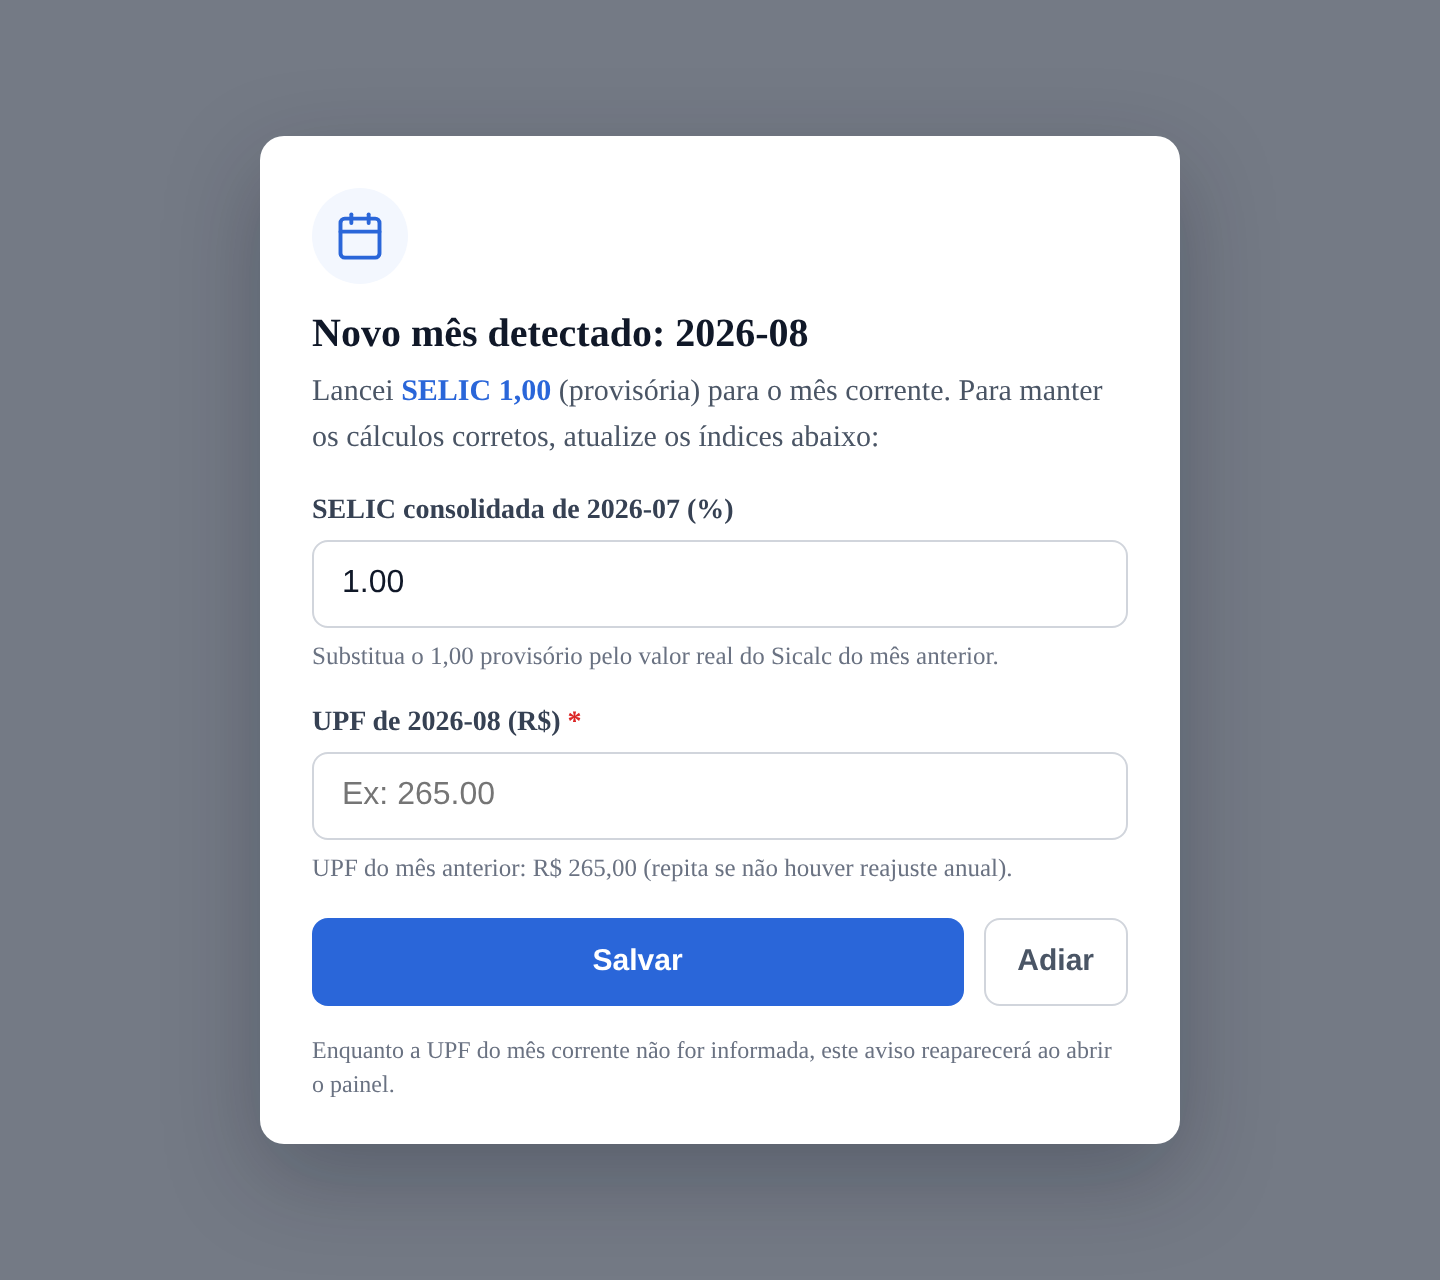
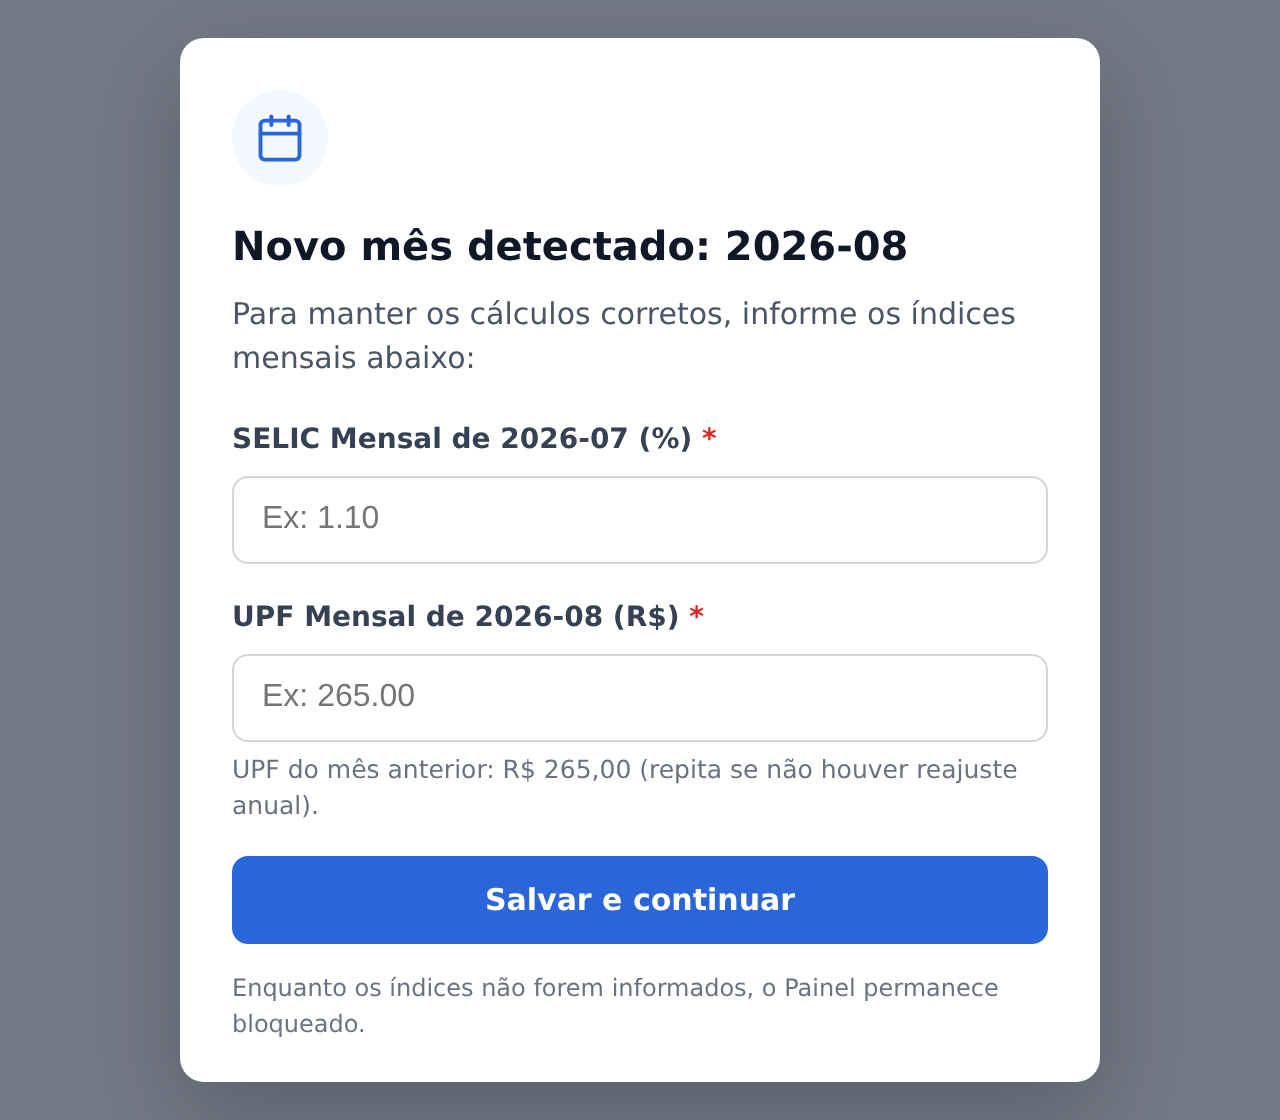
Make rollover popup blocking; monthly labels; drop 1,00 wording
- Popup now blocks the panel until BOTH indices are saved: removed the
  "Adiar" button; SELIC (previous month) and UPF (current month) are
  both required (client + server validation).
- Removed the "Lancei SELIC 1,00 (provisória)..." sentence and the
  "Substitua o 1,00 provisório..." SELIC hint.
- Labels are now "SELIC Mensal de <mes>" and "UPF Mensal de <mes>".
- Footer note: "Enquanto os indices nao forem informados, o Painel
  permanece bloqueado."
- Trigger unchanged: fires only when the current month's UPF is missing,
  i.e. on the 1st of the new month (in July it stays closed).

Regenerated the 4 complete itcd_admin blocks. JS syntax-checked, CSS
160/160, HTML div 63/63.

Claude-Session: https://claude.ai/code/session_01BSMQZgMMSg7UUR16w5mnfw

Changed region(s): [[0.125, 0.0312, 0.875, 0.9688]]

diff --git a/itcd_admin - 4 Server Script (completo).js b/itcd_admin - 4 Server Script (completo).js
@@ -104,7 +104,7 @@
       var upf = parseFloat(input.upf);
       var selicRaw = input.selic;
       var selic = (selicRaw === '' || selicRaw === null || selicRaw === undefined) ? null : parseFloat(selicRaw);
-      // [NOVO] SELIC do mês corrente é sempre 1,00 (o simulador não a lê)
+      // SELIC do mês corrente é sempre 1,00 (o simulador não a lê)
       if (mes === gs.nowDateTime().slice(0, 7)) { selic = 1; }
       if (!/^\d{4}-\d{2}$/.test(mes)) { data.msg = 'Mês inválido — use o formato AAAA-MM (ex: 2026-08).'; }
       else if (isNaN(upf)) { data.msg = 'UPF inválida.'; }
@@ -211,7 +211,7 @@
     } catch (e) { data.msg = 'Erro ao remover: ' + e; }
   }
 
-  /* ===== [NOVO] AÇÃO: salvar virada de mês (UPF do mês corrente + SELIC do mês anterior) ===== */
+  /* ===== [NOVO] AÇÃO: salvar virada de mês (UPF mensal do mês corrente + SELIC mensal do mês anterior) — ambos obrigatórios ===== */
   if (data.autenticado && input && input.acao === 'salvarViradaMes') {
     try {
       var vMesCorr = (input.mesCorrente || '').toString().trim();
@@ -219,7 +219,8 @@
       var vUpf = parseFloat(input.upfCorrente);
       var vSelicAnt = (input.selicAnterior === '' || input.selicAnterior === null || input.selicAnterior === undefined) ? null : parseFloat(input.selicAnterior);
       if (!/^\d{4}-\d{2}$/.test(vMesCorr)) { data.msg = 'Mês corrente inválido.'; data.viradaErro = true; }
-      else if (isNaN(vUpf) || vUpf <= 0) { data.msg = 'Informe a UPF do mês corrente (obrigatória).'; data.viradaErro = true; }
+      else if (vSelicAnt === null || isNaN(vSelicAnt)) { data.msg = 'Informe a SELIC mensal do mês anterior.'; data.viradaErro = true; }
+      else if (isNaN(vUpf) || vUpf <= 0) { data.msg = 'Informe a UPF mensal do mês corrente.'; data.viradaErro = true; }
       else {
         var gCorr = new GlideRecord(TB_IDX);
         gCorr.addQuery('u_mes', vMesCorr); gCorr.query();
@@ -236,22 +237,21 @@
           giC.setValue('u_selic', 1);
           giC.insert();
         }
-        if (vSelicAnt !== null && !isNaN(vSelicAnt) && /^\d{4}-\d{2}$/.test(vMesAnt)) {
+        if (/^\d{4}-\d{2}$/.test(vMesAnt)) {
           var gAnt = new GlideRecord(TB_IDX);
           gAnt.addQuery('u_mes', vMesAnt); gAnt.query();
           if (gAnt.next()) { gAnt.setValue('u_selic', vSelicAnt); gAnt.update(); }
         }
-        data.msg = 'Índices atualizados: UPF de ' + vMesCorr + (vSelicAnt !== null ? ' e SELIC de ' + vMesAnt : '') + '.';
+        data.msg = 'Índices atualizados: UPF de ' + vMesCorr + ' e SELIC de ' + vMesAnt + '.';
         data.viradaOk = true;
       }
     } catch (eV) { data.msg = 'Erro ao atualizar virada de mês: ' + eV; data.viradaErro = true; }
   }
 
-  /* ===== [NOVO] Detecção de virada de mês + lançamento automático de SELIC 1,00 ===== */
+  /* ===== [NOVO] Detecção de virada de mês (só dispara quando o mês vira) + SELIC 1,00 no mês corrente ===== */
   data.novoMes = false;
   data.mesCorrente = '';
   data.mesAnterior = '';
-  data.selicAnteriorAtual = null;
   data.upfSugerida = null;
   if (data.autenticado) {
     try {
@@ -273,14 +273,11 @@
         giNew.insert();
         _upfCur = null;
       }
+      // Bloqueia (popup) enquanto a UPF mensal do mês corrente não estiver informada
       data.novoMes = !(_upfCur > 0);
       var gPrev = new GlideRecord(TB_IDX);
       gPrev.addQuery('u_mes', _ymPrev); gPrev.query();
-      if (gPrev.next()) {
-        var _sPrev = gPrev.getValue('u_selic');
-        data.selicAnteriorAtual = (_sPrev === '' || _sPrev === null) ? null : (parseFloat(_sPrev) || 0);
-        data.upfSugerida = parseFloat(gPrev.getValue('u_valor')) || null;
-      }
+      if (gPrev.next()) { data.upfSugerida = parseFloat(gPrev.getValue('u_valor')) || null; }
     } catch (eR) {}
   }
 

diff --git a/itcd_admin - 1 HTML Template (completo).html b/itcd_admin - 1 HTML Template (completo).html
@@ -25,28 +25,26 @@
   <!-- Painel -->
   <div ng-if="c.data.autenticado">
 
-    <!-- ===== [NOVO] POPUP: virada de mês (atualização de índices) ===== -->
+    <!-- ===== POPUP: virada de mês — BLOQUEIA o painel até salvar os dois índices ===== -->
     <div class="itcd-modal-overlay" ng-if="c.popupVirada">
       <div class="itcd-modal" role="dialog" aria-modal="true" aria-labelledby="mv-titulo">
         <div class="mv-icone" aria-hidden="true"><svg viewBox="0 0 24 24"><rect x="3" y="4" width="18" height="18" rx="2"></rect><line x1="16" y1="2" x2="16" y2="6"></line><line x1="8" y1="2" x2="8" y2="6"></line><line x1="3" y1="10" x2="21" y2="10"></line></svg></div>
         <h3 id="mv-titulo">Novo mês detectado: {{c.data.mesCorrente}}</h3>
-        <p class="mv-texto">Lancei <strong>SELIC 1,00</strong> (provisória) para o mês corrente. Para manter os cálculos corretos, atualize os índices abaixo:</p>
+        <p class="mv-texto">Para manter os cálculos corretos, informe os índices mensais abaixo:</p>
         <div class="mv-campo">
-          <label>SELIC consolidada de {{c.data.mesAnterior}} (%)</label>
+          <label>SELIC Mensal de {{c.data.mesAnterior}} (%) <span class="mv-req">*</span></label>
           <input type="number" step="0.01" ng-model="c.virada.selic" placeholder="Ex: 1.10">
-          <span class="mv-hint">Substitua o 1,00 provisório pelo valor real do Sicalc do mês anterior.</span>
         </div>
         <div class="mv-campo">
-          <label>UPF de {{c.data.mesCorrente}} (R$) <span class="mv-req">*</span></label>
+          <label>UPF Mensal de {{c.data.mesCorrente}} (R$) <span class="mv-req">*</span></label>
           <input type="number" step="0.01" ng-model="c.virada.upf" placeholder="Ex: 265.00" ng-keyup="$event.keyCode === 13 && c.salvarViradaMes()">
           <span class="mv-hint" ng-if="c.data.upfSugerida">UPF do mês anterior: R$ {{c.fmt(c.data.upfSugerida)}} (repita se não houver reajuste anual).</span>
         </div>
         <div class="mv-msg" ng-if="c.viradaMsg" role="alert">{{c.viradaMsg}}</div>
         <div class="mv-acoes">
-          <button class="btn-adm mv-salvar" ng-click="c.salvarViradaMes()">Salvar</button>
-          <button class="mv-adiar" ng-click="c.adiarVirada()">Adiar</button>
+          <button class="btn-adm mv-salvar" ng-click="c.salvarViradaMes()">Salvar e continuar</button>
         </div>
-        <p class="mv-nota">Enquanto a UPF do mês corrente não for informada, este aviso reaparecerá ao abrir o painel.</p>
+        <p class="mv-nota">Enquanto os índices não forem informados, o Painel permanece bloqueado.</p>
       </div>
     </div>
 

diff --git a/itcd_admin - 2 CSS-SCSS (completo).css b/itcd_admin - 2 CSS-SCSS (completo).css
@@ -209,14 +209,13 @@
   .itcd-admin.guia-ativa .guia-doc { border: none; padding: 0; }
 }
 
-/* ===== [NOVO] Popup de virada de mês (índices) ===== */
+/* ===== Popup de virada de mês (bloqueante) ===== */
 .itcd-admin .itcd-modal-overlay { position: fixed; inset: 0; background: rgba(16,24,40,.55); display: flex; align-items: center; justify-content: center; z-index: 1000; padding: 16px; box-sizing: border-box; }
 .itcd-admin .itcd-modal { background: #fff; border-radius: 12px; max-width: 460px; width: 100%; padding: 26px 26px 20px; box-shadow: 0 16px 48px rgba(16,24,40,.28); box-sizing: border-box; }
 .itcd-admin .mv-icone { width: 48px; height: 48px; border-radius: 50%; background: #F3F7FE; display: flex; align-items: center; justify-content: center; margin-bottom: 14px; }
 .itcd-admin .mv-icone svg { width: 26px; height: 26px; stroke: #2A66D9; fill: none; stroke-width: 1.8; stroke-linecap: round; stroke-linejoin: round; }
 .itcd-admin .itcd-modal h3 { margin: 0 0 6px; font-size: 20px; font-weight: 700; color: #101828; }
 .itcd-admin .mv-texto { margin: 0 0 18px; font-size: 15px; line-height: 1.5; color: #4A5565; }
-.itcd-admin .mv-texto strong { color: #2A66D9; }
 .itcd-admin .mv-campo { margin-bottom: 16px; }
 .itcd-admin .mv-campo label { display: block; font-size: 14px; font-weight: 600; color: #364153; margin-bottom: 6px; }
 .itcd-admin .mv-req { color: #DC2626; }
@@ -224,9 +223,8 @@
 .itcd-admin .mv-campo input:focus { border-color: #2A66D9; box-shadow: 0 0 0 3px rgba(42,102,217,.18); }
 .itcd-admin .mv-hint { display: block; margin-top: 5px; font-size: 12.5px; color: #6A7282; line-height: 1.45; }
 .itcd-admin .mv-msg { margin: 0 0 12px; font-size: 13.5px; font-weight: 600; color: #B91C1C; }
-.itcd-admin .mv-acoes { display: flex; gap: 10px; align-items: center; margin-top: 4px; }
+.itcd-admin .mv-acoes { display: flex; margin-top: 4px; }
 .itcd-admin .mv-salvar { flex: 1; }
-.itcd-admin .mv-adiar { height: 44px; padding: 0 16px; background: #fff; color: #4A5565; border: 1px solid #D1D5DC; border-radius: 8px; font-size: 15px; font-weight: 600; cursor: pointer; }
 .itcd-admin .mv-nota { margin: 14px 0 0; font-size: 12px; color: #6A7282; line-height: 1.45; }
 /* Campo SELIC do mês corrente bloqueado no formulário de índices */
 .itcd-admin .af-fixo { height: 42px; display: flex; align-items: center; gap: 8px; padding: 0 12px; box-sizing: border-box; background: #F3F4F6; border: 1px dashed #D1D5DC; border-radius: 8px; color: #6A7282; font-size: 15px; font-weight: 700; }

diff --git a/itcd_admin - 3 Client Script (completo).js b/itcd_admin - 3 Client Script (completo).js
@@ -151,27 +151,29 @@ api.controller = function() {
     } catch (e) { return ''; }
   };
 
-  /* ===== [NOVO] Virada de mês: popup de atualização de índices ===== */
+  /* ===== [NOVO] Virada de mês: popup bloqueante (SELIC mensal anterior + UPF mensal corrente) ===== */
   c.popupVirada = false;
   c.viradaMsg = '';
   c.virada = { upf: null, selic: null };
   c.syncVirada = function() {
     c.popupVirada = !!(c.data && c.data.novoMes);
     c.viradaMsg = '';
-    c.virada = { upf: null, selic: (c.data && c.data.selicAnteriorAtual != null) ? c.data.selicAnteriorAtual : null };
+    c.virada = { upf: null, selic: null };
   };
   c.salvarViradaMes = function() {
     c.viradaMsg = '';
-    if (!c.virada.upf || parseFloat(c.virada.upf) <= 0) { c.viradaMsg = 'Informe a UPF do mês corrente.'; return; }
+    var sel = (c.virada.selic === '' || c.virada.selic === null || c.virada.selic === undefined) ? NaN : parseFloat(c.virada.selic);
+    var upf = parseFloat(c.virada.upf);
+    if (isNaN(sel)) { c.viradaMsg = 'Informe a SELIC mensal do mês anterior.'; return; }
+    if (isNaN(upf) || upf <= 0) { c.viradaMsg = 'Informe a UPF mensal do mês corrente.'; return; }
     c.data.acao = 'salvarViradaMes';
     c.data.senha = c.senha;
     c.data.upfCorrente = c.virada.upf;
-    c.data.selicAnterior = (c.virada.selic === '' || c.virada.selic === undefined) ? null : c.virada.selic;
+    c.data.selicAnterior = c.virada.selic;
     c.server.update().then(function() {
       if (c.data.viradaOk) { c.popupVirada = false; }
       else if (c.data.viradaErro && c.data.msg) { c.viradaMsg = c.data.msg; }
     });
   };
-  c.adiarVirada = function() { c.popupVirada = false; };
   c.syncVirada();
 };
